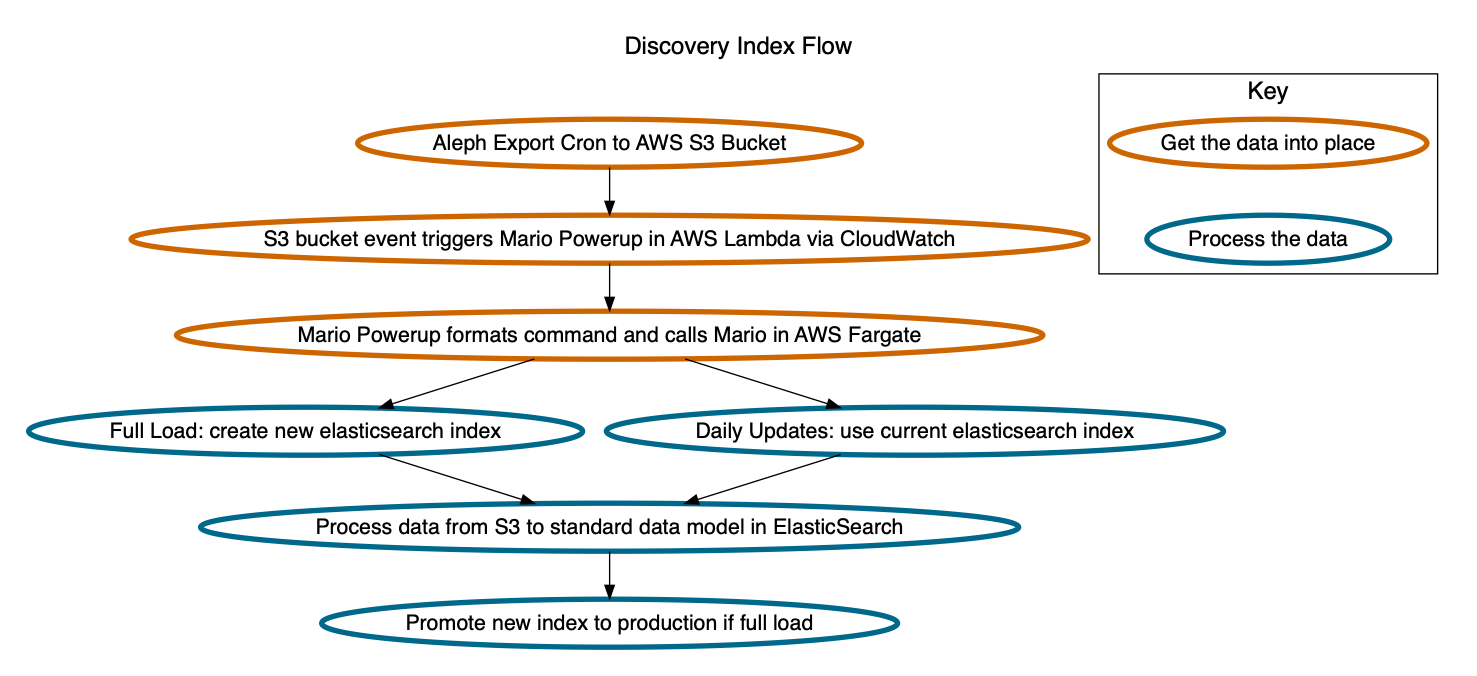
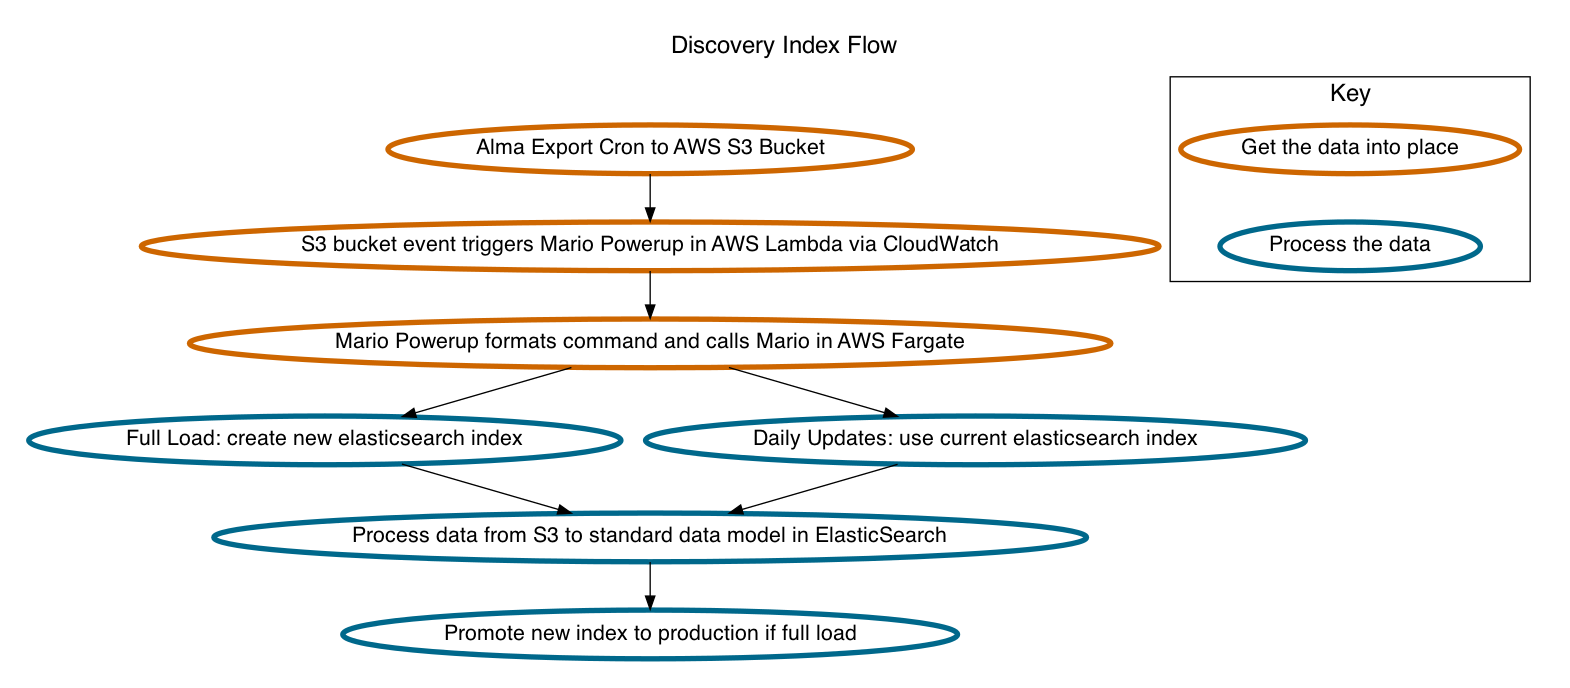
Change all references to aleph
Why these changes are being introduced:
Our ingest command and some of the documentation referenced Aleph as
the source system for MARC records. Now that we're migrating to Alma,
we need to change all of those references to use the current system
name.

How this addresses that need:
* Changes the CLI source option for MARC records from aleph to alma
* Updates references to Aleph in documentation and charts

Side effects of this change:
* Mario-powerup command needs to be changed to match the new CLI source
  option (already handled in a PR to that repo).
* Note that ADRs referencing Aleph remain, as those are accurate records
  of our decisions at the time.

diff --git a/cmd/mario/main.go b/cmd/mario/main.go
@@ -98,7 +98,7 @@ func main() {
 				&cli.StringFlag{
 					Name:     "source",
 					Aliases:  []string{"s"},
-					Usage:    "Source system of metadata file to process. Must be one of [aleph, aspace, dspace, mario]",
+					Usage:    "Source system of metadata file to process. Must be one of [alma, aspace, dspace, mario]",
 					Required: true,
 				},
 				&cli.StringFlag{

diff --git a/pkg/ingester/ingester.go b/pkg/ingester/ingester.go
@@ -54,7 +54,7 @@ type Ingester struct {
 func (i *Ingester) Configure(config Config) error {
 	var err error
 	// Configure generator
-	if config.Source == "aleph" {
+	if config.Source == "alma" {
 		i.generator = &generator.MarcGenerator{Marcfile: i.Stream}
 	} else if config.Source == "aspace" {
 		i.generator = &generator.ArchivesGenerator{Archivefile: i.Stream}

diff --git a/README.md b/README.md
@@ -32,8 +32,8 @@ Here are a few sample Mario commands that may be useful for local development:
   as JSON
 - `mario ingest -s dspace fixtures/dspace_samples.xml` ingests the
   DSpace sample files into a local Elasticsearch instance.
-- `mario ingest -s aleph --auto fixtures/mit_test_records.mrc` ingests the
-  Aleph sample files into a local Elasticsearch instance and promotes the
+- `mario ingest -s alma --auto fixtures/alma_samples.mrc` ingests the
+  Alma sample files into a local Elasticsearch instance and promotes the
   index to the timdex-prod alias on completion.
 - `mario indexes` list all indexes
 - `mario promote -i [index name]` promotes the named index to the
